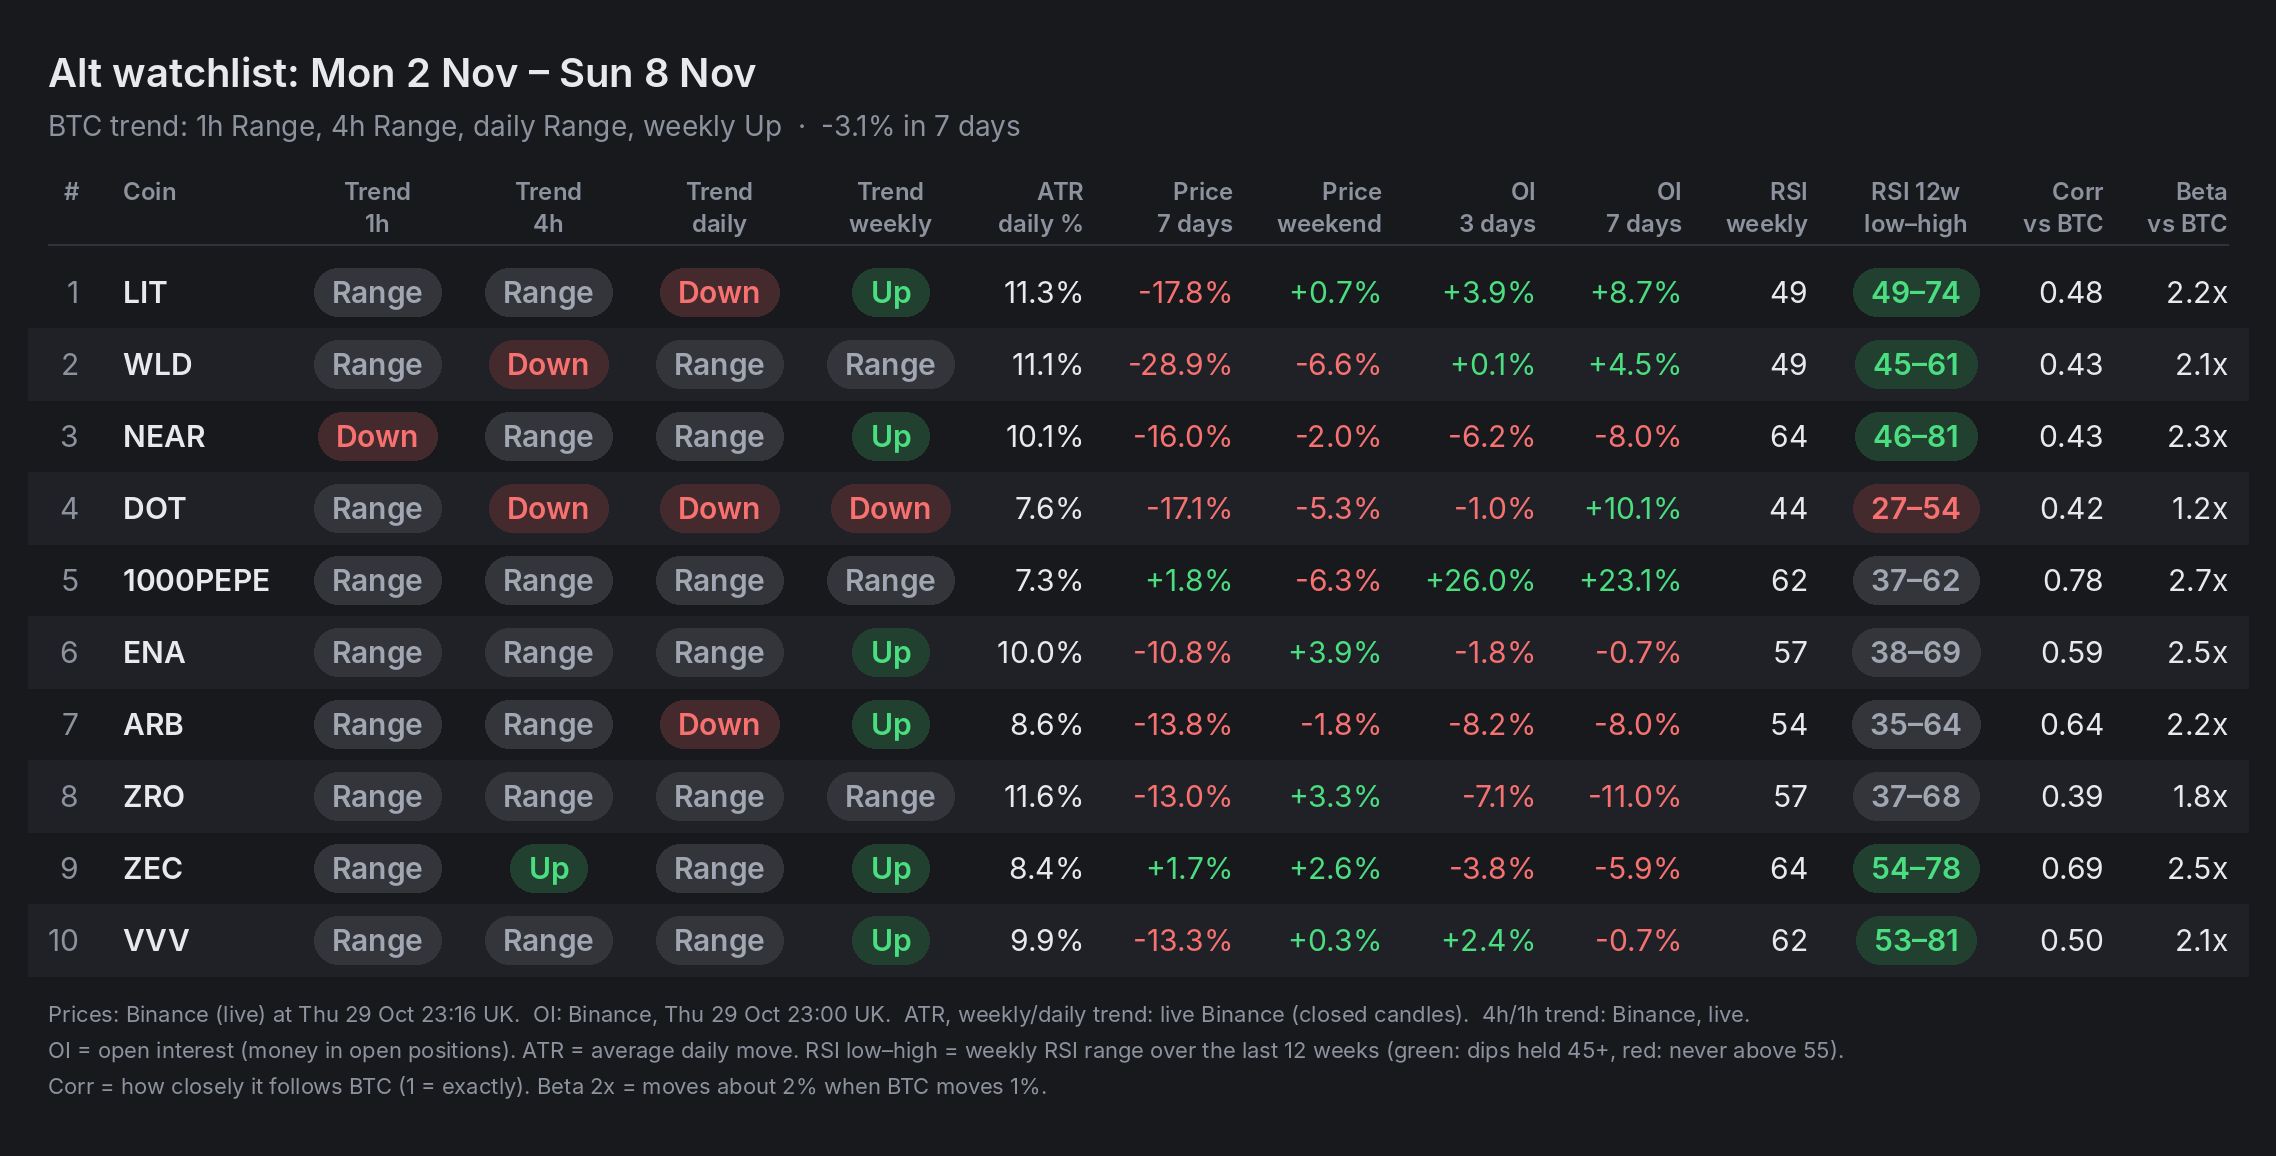
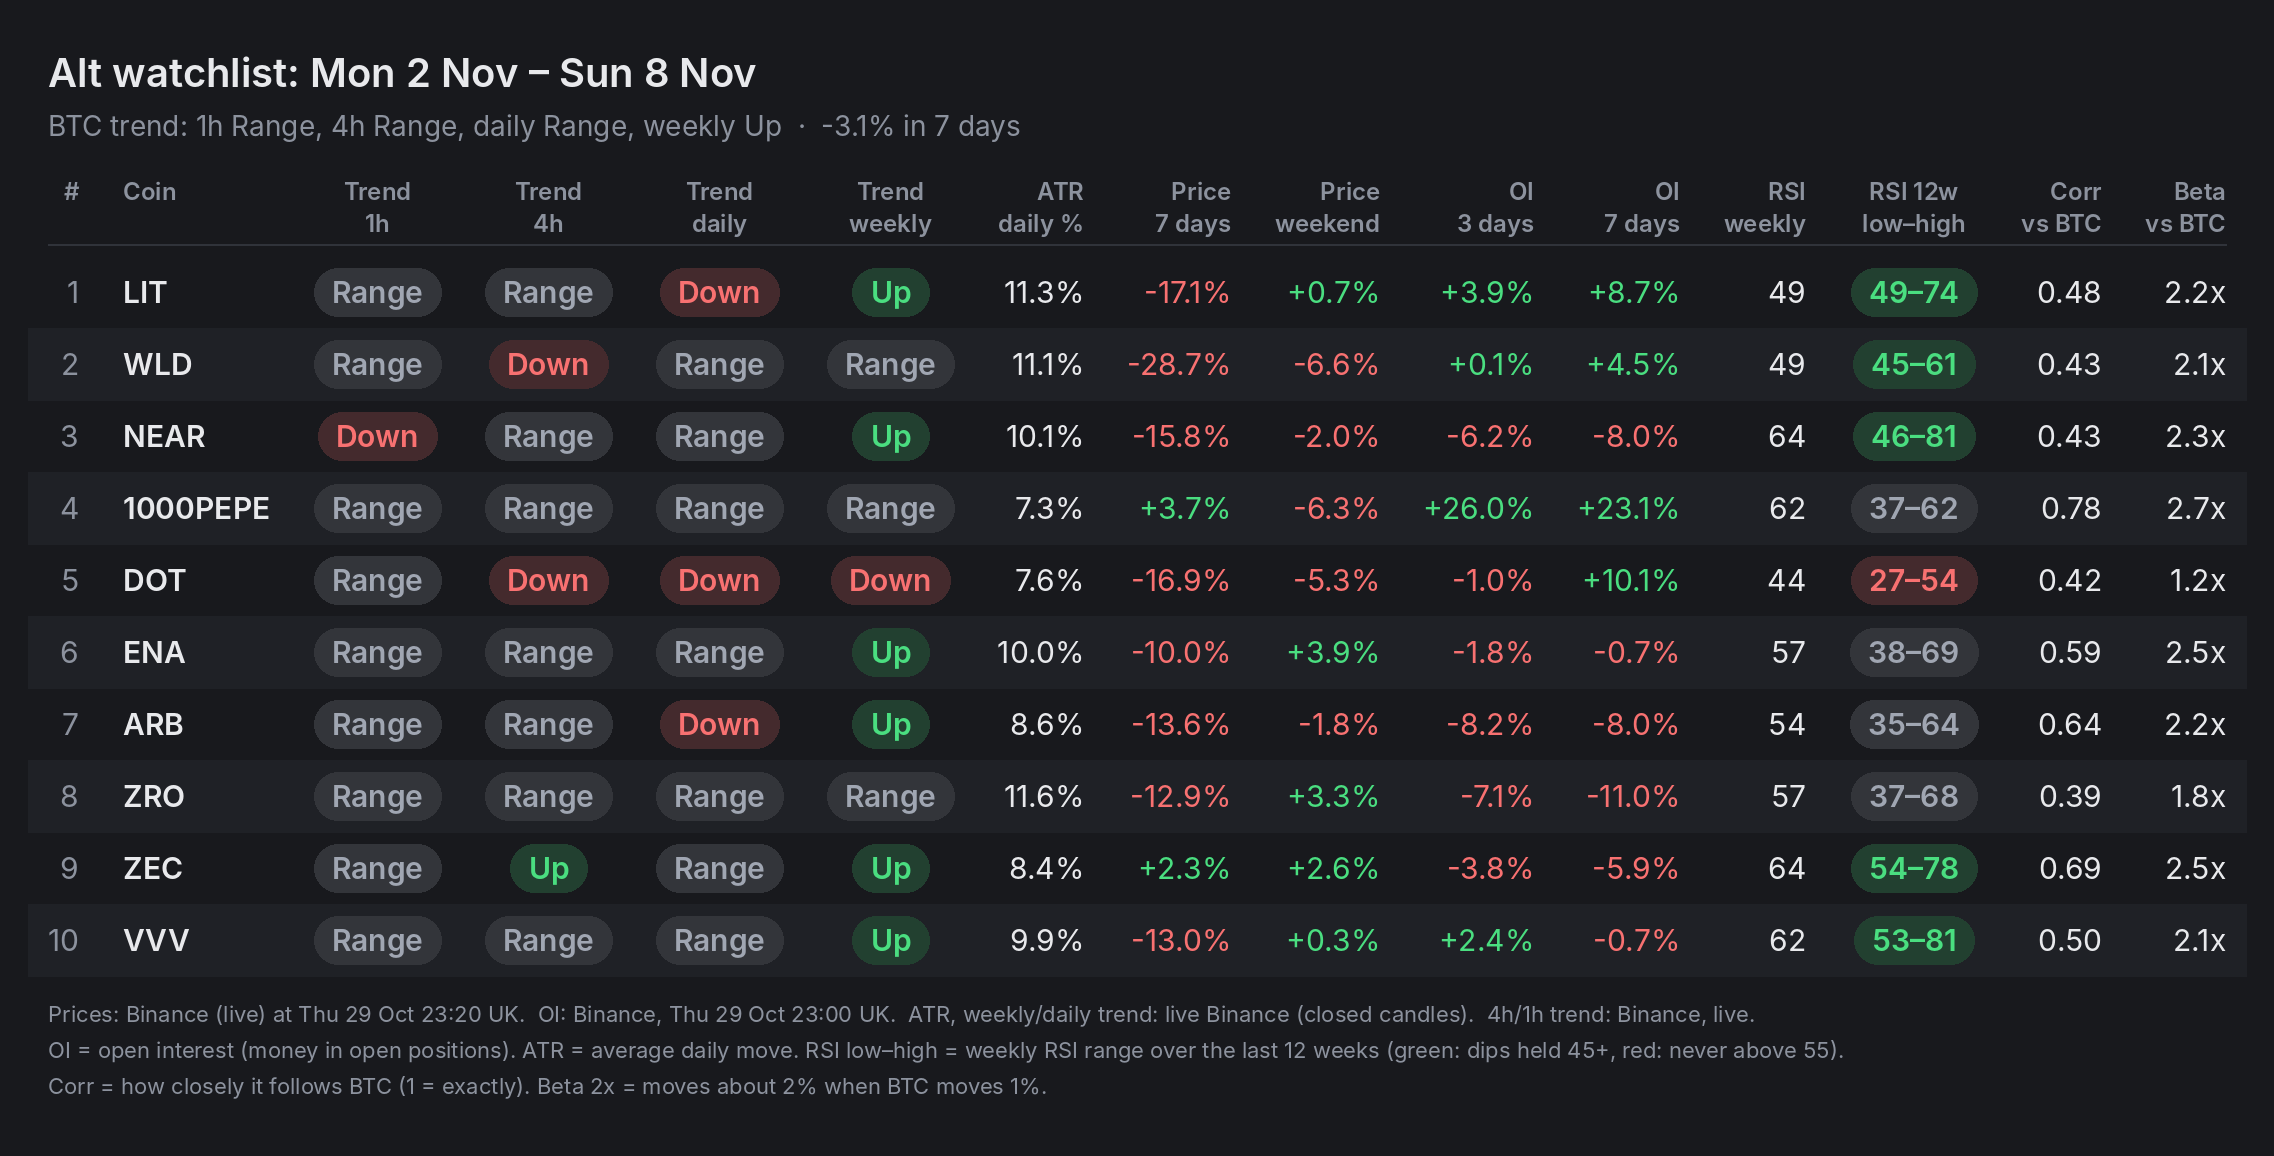
Weekly watchlist 2026-10-29

diff --git a/latest/report.md b/latest/report.md
@@ -1,6 +1,6 @@
 # Alt watchlist: Mon 2 Nov – Sun 8 Nov
 
-- **Generated (UK time):** Thu 29 Oct 2026 23:16
+- **Generated (UK time):** Thu 29 Oct 2026 23:20
 - **Daily candles up to (UTC):** 2026-10-28
 - **Binance perps also on Hyperliquid (after exclusions):** 169
 - **Passed all filters:** 30
@@ -9,36 +9,36 @@
 
 | Rank | Coin | Score | Trend | ATR% | Vol 7d/30d | 7d move | Weekend move | OI 3d | OI 7d | Corr BTC | Beta BTC | Binance OI | Binance 7d avg vol | HL 24h vol | HL OI | wRSI | wRSI 12w low–high | Funding /8h | Tags | Candles |
 |---|---|---|---|---|---|---|---|---|---|---|---|---|---|---|---|---|---|---|---|---|
-| **1** | LIT | 73 | 1h: Range · 4h: Range · D: Down · W: Up | 11.3% | 0.70 | -17.8% | +0.7% | +3.9% | +8.7% | 0.48 | 2.16 | $49.9M | $48.6M | $83.8M | $105.6M | 49 | 49–74 | +0.0100% (Binance) |  | Binance live |
-| **2** | WLD | 72 | 1h: Range · 4h: Down · D: Range · W: Range | 11.1% | 0.82 | -28.9% | -6.6% | +0.1% | +4.5% | 0.43 | 2.07 | $72.2M | $235.4M | $35.7M | $51.0M | 49 | 45–61 | -0.0011% (Binance) |  | Binance live |
-| **3** | NEAR | 71 | 1h: Down · 4h: Range · D: Range · W: Up | 10.1% | 0.72 | -16.0% | -2.0% | -6.2% | -8.0% | 0.43 | 2.27 | $204.4M | $523.5M | $210.4M | $227.0M | 64 | 46–81 | +0.0023% (Binance) |  | Binance live |
-| **4** | DOT | 68 | 1h: Range · 4h: Down · D: Down · W: Down | 7.6% | 0.87 | -17.1% | -5.3% | -1.0% | +10.1% | 0.42 | 1.24 | $31.7M | $55.7M | $4.5M | $5.5M | 44 | 27–54 | -0.0041% (Binance) |  | Binance live |
-| **5** | 1000PEPE | 67 | 1h: Range · 4h: Range · D: Range · W: Range | 7.3% | 1.48 | +1.8% | -6.3% | +26.0% | +23.1% | 0.78 | 2.71 | $103.8M | $372.4M | $204.3M | $67.9M | 62 | 37–62 | +0.0100% (Binance) |  | Binance live |
-| **6** | ENA | 63 | 1h: Range · 4h: Range · D: Range · W: Up | 10.0% | 1.10 | -10.8% | +3.9% | -1.8% | -0.7% | 0.59 | 2.46 | $89.3M | $289.4M | $124.6M | $91.0M | 57 | 38–69 | -0.0106% (Binance) |  | Binance live |
-| **7** | ARB | 60 | 1h: Range · 4h: Range · D: Down · W: Up | 8.6% | 0.73 | -13.8% | -1.8% | -8.2% | -8.0% | 0.64 | 2.21 | $39.9M | $71.0M | $10.6M | $12.5M | 54 | 35–64 | -0.0069% (Binance) |  | Binance live |
-| **8** | ZRO | 59 | 1h: Range · 4h: Range · D: Range · W: Range | 11.6% | 0.51 | -13.0% | +3.3% | -7.1% | -11.0% | 0.39 | 1.77 | $29.9M | $35.7M | $29.7M | $60.0M | 57 | 37–68 | +0.0100% (Binance) |  | Binance live |
-| **9** | ZEC | 59 | 1h: Range · 4h: Up · D: Range · W: Up | 8.4% | 0.93 | +1.7% | +2.6% | -3.8% | -5.9% | 0.69 | 2.55 | $528.2M | $1.6B | $777.3M | $601.3M | 64 | 54–78 | -0.0003% (Binance) |  | Binance live |
-| **10** | VVV | 56 | 1h: Range · 4h: Range · D: Range · W: Up | 9.9% | 0.87 | -13.3% | +0.3% | +2.4% | -0.7% | 0.50 | 2.09 | $22.2M | $31.5M | $20.2M | $67.2M | 62 | 53–81 | +0.0100% (Binance) |  | Binance live |
-| 11 | AAVE | 56 | 1h: n/a · 4h: n/a · D: Down · W: Up | 6.9% | 0.62 | -18.5% | -5.5% | +10.6% | +13.7% | 0.58 | 1.70 | $53.4M | $78.9M | $36.3M | $52.2M | 52 | 42–66 | +0.0014% (Binance) |  | Binance live |
-| 12 | INJ | 56 | 1h: n/a · 4h: n/a · D: Range · W: Up | 8.8% | 0.81 | -6.9% | +1.1% | -7.9% | -8.2% | 0.63 | 2.49 | $22.6M | $72.4M | $7.3M | $5.0M | 64 | 42–71 | +0.0015% (Binance) |  | Binance live |
-| 13 | STRK | 56 | 1h: n/a · 4h: n/a · D: Down · W: Range | 18.3% | 0.27 | -20.6% | -7.5% | -10.0% | -7.6% | 0.41 | 4.58 | $18.8M | $55.3M | $11.7M | $29.5M | 50 | 34–77 | +0.0081% (Binance) |  | Binance live |
-| 14 | XMR | 53 | 1h: n/a · 4h: n/a · D: Up · W: Range | 5.6% | 1.49 | +2.2% | +1.6% | +6.5% | -9.3% | 0.34 | 0.67 | $64.5M | $84.8M | $103.3M | $142.7M | 72 | 59–73 | +0.0586% (Binance) | Extreme funding | Binance live |
-| 15 | TIA | 53 | 1h: n/a · 4h: n/a · D: Range · W: Range | 10.3% | 0.53 | -12.6% | -1.0% | -17.8% | -8.5% | 0.19 | 1.07 | $19.9M | $54.5M | $4.9M | $7.2M | 56 | 36–62 | +0.0018% (Binance) |  | Binance live |
-| 16 | APT | 47 | 1h: n/a · 4h: n/a · D: Down · W: Down | 9.0% | 0.57 | -17.5% | -4.7% | -7.6% | -5.7% | 0.64 | 2.40 | $16.1M | $32.6M | $3.7M | $3.6M | 44 | 30–51 | -0.0072% (Binance) |  | Binance live |
-| 17 | UNI | 46 | 1h: n/a · 4h: n/a · D: Down · W: Up | 7.5% | 0.60 | -9.0% | -0.6% | +8.9% | +6.7% | 0.77 | 2.45 | $153.5M | $137.5M | $88.0M | $79.4M | 58 | 44–74 | +0.0023% (Binance) |  | Binance live |
-| 18 | PUMP | 45 | 1h: n/a · 4h: n/a · D: Down · W: Up | 11.2% | 0.52 | -11.2% | -1.4% | -4.4% | +0.6% | 0.49 | 2.67 | $69.8M | $132.9M | $104.9M | $103.5M | 56 | 54–78 | +0.0091% (Binance) |  | Binance live |
-| 19 | AVAX | 44 | 1h: n/a · 4h: n/a · D: Down · W: Range | 6.1% | 0.62 | -8.7% | -1.4% | -6.6% | -16.0% | 0.62 | 1.68 | $74.4M | $94.8M | $8.5M | $16.6M | 49 | 34–62 | +0.0025% (Binance) |  | Binance live |
-| 20 | TRUMP | 43 | 1h: n/a · 4h: n/a · D: Down · W: Down | 6.7% | 0.65 | -9.0% | -3.1% | -7.1% | -8.3% | 0.76 | 1.73 | $36.4M | $52.1M | $4.1M | $7.0M | 39 | 27–48 | +0.0100% (Binance) |  | Binance live |
-| 21 | HBAR | 39 | 1h: n/a · 4h: n/a · D: Down · W: Range | 6.4% | 0.52 | -12.7% | +0.0% | -9.3% | -12.4% | 0.46 | 1.32 | $27.4M | $32.7M | $6.5M | $9.2M | 44 | 33–59 | +0.0035% (Binance) |  | Binance live |
-| 22 | XRP | 39 | 1h: n/a · 4h: n/a · D: Down · W: Range | 4.2% | 0.74 | -4.9% | +0.1% | -1.9% | -6.9% | 0.93 | 1.40 | $368.6M | $530.3M | $122.6M | $217.9M | 48 | 31–57 | +0.0064% (Binance) |  | Binance live |
-| 23 | SUI | 39 | 1h: n/a · 4h: n/a · D: Down · W: Range | 6.7% | 0.63 | -9.3% | -4.2% | -4.2% | +3.8% | 0.80 | 2.00 | $95.9M | $178.1M | $24.0M | $28.7M | 49 | 36–60 | -0.0081% (Binance) |  | Binance live |
-| 24 | DOGE | 38 | 1h: n/a · 4h: n/a · D: Down · W: Down | 4.7% | 0.75 | -3.5% | -2.2% | -5.2% | -5.4% | 0.88 | 1.53 | $198.4M | $271.0M | $13.6M | $76.4M | 44 | 33–52 | +0.0031% (Binance) |  | Binance live |
-| 25 | LINK | 37 | 1h: n/a · 4h: n/a · D: Down · W: Up | 5.4% | 0.69 | -10.5% | -3.2% | +4.1% | +4.7% | 0.79 | 1.56 | $90.5M | $94.0M | $30.5M | $53.7M | 53 | 50–66 | -0.0025% (Binance) |  | Binance live |
-| 26 | BCH | 36 | 1h: n/a · 4h: n/a · D: Range · W: Down | 5.5% | 1.00 | +0.9% | -1.2% | -2.4% | +2.2% | 0.70 | 1.67 | $79.0M | $80.6M | $4.7M | $7.6M | 48 | 30–53 | +0.0087% (Binance) |  | Binance live |
-| 27 | TAO | 33 | 1h: n/a · 4h: n/a · D: Down · W: Range | 6.5% | 0.69 | -7.5% | -0.8% | -0.1% | -3.4% | 0.73 | 1.82 | $59.0M | $90.3M | $14.0M | $36.5M | 51 | 43–60 | -0.0136% (Binance) |  | Binance live |
-| 28 | ONDO | 33 | 1h: n/a · 4h: n/a · D: Down · W: Range | 7.4% | 0.54 | -10.4% | -2.6% | +1.5% | +2.9% | 0.69 | 1.78 | $46.8M | $60.1M | $17.7M | $20.8M | 51 | 46–66 | +0.0042% (Binance) |  | Binance live |
-| 29 | ADA | 29 | 1h: n/a · 4h: n/a · D: Down · W: Range | 6.3% | 0.67 | -9.5% | -3.1% | -3.5% | -0.1% | 0.77 | 1.98 | $63.9M | $122.4M | $10.1M | $28.4M | 45 | 38–54 | +0.0044% (Binance) |  | Binance live |
-| 30 | LTC | 29 | 1h: n/a · 4h: n/a · D: Down · W: Range | 4.6% | 0.73 | -5.8% | -0.9% | -4.0% | -3.7% | 0.75 | 1.39 | $64.5M | $60.2M | $4.3M | $21.7M | 52 | 37–66 | +0.0037% (Binance) |  | Binance live |
+| **1** | LIT | 73 | 1h: Range · 4h: Range · D: Down · W: Up | 11.3% | 0.70 | -17.1% | +0.7% | +3.9% | +8.7% | 0.48 | 2.16 | $49.9M | $48.6M | $84.0M | $106.9M | 49 | 49–74 | +0.0100% (Binance) |  | Binance live |
+| **2** | WLD | 72 | 1h: Range · 4h: Down · D: Range · W: Range | 11.1% | 0.82 | -28.7% | -6.6% | +0.1% | +4.5% | 0.43 | 2.07 | $72.2M | $235.4M | $37.0M | $51.3M | 49 | 45–61 | -0.0001% (Binance) |  | Binance live |
+| **3** | NEAR | 71 | 1h: Down · 4h: Range · D: Range · W: Up | 10.1% | 0.72 | -15.8% | -2.0% | -6.2% | -8.0% | 0.43 | 2.27 | $204.4M | $523.5M | $210.8M | $228.1M | 64 | 46–81 | +0.0026% (Binance) |  | Binance live |
+| **4** | 1000PEPE | 68 | 1h: Range · 4h: Range · D: Range · W: Range | 7.3% | 1.48 | +3.7% | -6.3% | +26.0% | +23.1% | 0.78 | 2.71 | $103.8M | $372.4M | $209.9M | $66.6M | 62 | 37–62 | +0.0100% (Binance) |  | Binance live |
+| **5** | DOT | 68 | 1h: Range · 4h: Down · D: Down · W: Down | 7.6% | 0.87 | -16.9% | -5.3% | -1.0% | +10.1% | 0.42 | 1.24 | $31.7M | $55.7M | $4.5M | $5.5M | 44 | 27–54 | -0.0037% (Binance) |  | Binance live |
+| **6** | ENA | 62 | 1h: Range · 4h: Range · D: Range · W: Up | 10.0% | 1.10 | -10.0% | +3.9% | -1.8% | -0.7% | 0.59 | 2.46 | $89.3M | $289.4M | $125.3M | $91.5M | 57 | 38–69 | -0.0123% (Binance) |  | Binance live |
+| **7** | ARB | 60 | 1h: Range · 4h: Range · D: Down · W: Up | 8.6% | 0.73 | -13.6% | -1.8% | -8.2% | -8.0% | 0.64 | 2.21 | $39.9M | $71.0M | $10.5M | $12.5M | 54 | 35–64 | -0.0069% (Binance) |  | Binance live |
+| **8** | ZRO | 59 | 1h: Range · 4h: Range · D: Range · W: Range | 11.6% | 0.51 | -12.9% | +3.3% | -7.1% | -11.0% | 0.39 | 1.77 | $29.9M | $35.7M | $29.8M | $60.0M | 57 | 37–68 | +0.0100% (Binance) |  | Binance live |
+| **9** | ZEC | 59 | 1h: Range · 4h: Up · D: Range · W: Up | 8.4% | 0.93 | +2.3% | +2.6% | -3.8% | -5.9% | 0.69 | 2.55 | $528.2M | $1.6B | $782.7M | $610.0M | 64 | 54–78 | -0.0003% (Binance) |  | Binance live |
+| **10** | VVV | 56 | 1h: Range · 4h: Range · D: Range · W: Up | 9.9% | 0.87 | -13.0% | +0.3% | +2.4% | -0.7% | 0.50 | 2.09 | $22.2M | $31.5M | $20.2M | $67.4M | 62 | 53–81 | +0.0100% (Binance) |  | Binance live |
+| 11 | AAVE | 56 | 1h: n/a · 4h: n/a · D: Down · W: Up | 6.9% | 0.62 | -18.2% | -5.5% | +10.6% | +13.7% | 0.58 | 1.70 | $53.4M | $78.9M | $36.4M | $52.4M | 52 | 42–66 | +0.0016% (Binance) |  | Binance live |
+| 12 | INJ | 56 | 1h: n/a · 4h: n/a · D: Range · W: Up | 8.8% | 0.81 | -6.9% | +1.1% | -7.9% | -8.2% | 0.63 | 2.49 | $22.6M | $72.4M | $7.3M | $5.0M | 64 | 42–71 | +0.0010% (Binance) |  | Binance live |
+| 13 | STRK | 56 | 1h: n/a · 4h: n/a · D: Down · W: Range | 18.3% | 0.27 | -20.4% | -7.5% | -10.0% | -7.6% | 0.41 | 4.58 | $18.8M | $55.3M | $11.7M | $29.6M | 50 | 34–77 | +0.0089% (Binance) |  | Binance live |
+| 14 | TIA | 53 | 1h: n/a · 4h: n/a · D: Range · W: Range | 10.3% | 0.53 | -12.0% | -1.0% | -17.8% | -8.5% | 0.19 | 1.07 | $19.9M | $54.5M | $4.9M | $7.3M | 56 | 36–62 | +0.0024% (Binance) |  | Binance live |
+| 15 | XMR | 53 | 1h: n/a · 4h: n/a · D: Up · W: Range | 5.6% | 1.49 | +2.7% | +1.6% | +6.5% | -9.3% | 0.34 | 0.67 | $64.5M | $84.8M | $103.4M | $143.4M | 72 | 59–73 | +0.0586% (Binance) | Extreme funding | Binance live |
+| 16 | APT | 48 | 1h: n/a · 4h: n/a · D: Down · W: Down | 9.0% | 0.57 | -17.3% | -4.7% | -7.6% | -5.7% | 0.64 | 2.40 | $16.1M | $32.6M | $3.7M | $3.5M | 44 | 30–51 | -0.0072% (Binance) |  | Binance live |
+| 17 | AVAX | 45 | 1h: n/a · 4h: n/a · D: Down · W: Range | 6.1% | 0.62 | -8.6% | -1.4% | -6.6% | -16.0% | 0.62 | 1.68 | $74.4M | $94.8M | $8.5M | $16.5M | 49 | 34–62 | +0.0026% (Binance) |  | Binance live |
+| 18 | UNI | 44 | 1h: n/a · 4h: n/a · D: Down · W: Up | 7.5% | 0.60 | -8.0% | -0.6% | +8.9% | +6.7% | 0.77 | 2.45 | $153.5M | $137.5M | $88.9M | $80.3M | 58 | 44–74 | +0.0020% (Binance) |  | Binance live |
+| 19 | PUMP | 44 | 1h: n/a · 4h: n/a · D: Down · W: Up | 11.2% | 0.52 | -10.8% | -1.4% | -4.4% | +0.6% | 0.49 | 2.67 | $69.8M | $132.9M | $105.0M | $103.8M | 56 | 54–78 | +0.0098% (Binance) |  | Binance live |
+| 20 | TRUMP | 43 | 1h: n/a · 4h: n/a · D: Down · W: Down | 6.7% | 0.65 | -8.9% | -3.1% | -7.1% | -8.3% | 0.76 | 1.73 | $36.4M | $52.1M | $4.1M | $7.0M | 39 | 27–48 | +0.0100% (Binance) |  | Binance live |
+| 21 | HBAR | 39 | 1h: n/a · 4h: n/a · D: Down · W: Range | 6.4% | 0.52 | -12.6% | +0.0% | -9.3% | -12.4% | 0.46 | 1.32 | $27.4M | $32.7M | $6.5M | $9.2M | 44 | 33–59 | +0.0034% (Binance) |  | Binance live |
+| 22 | XRP | 39 | 1h: n/a · 4h: n/a · D: Down · W: Range | 4.2% | 0.74 | -4.7% | +0.1% | -1.9% | -6.9% | 0.93 | 1.40 | $368.6M | $530.3M | $123.0M | $218.8M | 48 | 31–57 | +0.0066% (Binance) |  | Binance live |
+| 23 | SUI | 39 | 1h: n/a · 4h: n/a · D: Down · W: Range | 6.7% | 0.63 | -9.1% | -4.2% | -4.2% | +3.8% | 0.80 | 2.00 | $95.9M | $178.1M | $24.0M | $28.8M | 49 | 36–60 | -0.0083% (Binance) |  | Binance live |
+| 24 | LINK | 38 | 1h: n/a · 4h: n/a · D: Down · W: Up | 5.4% | 0.69 | -10.9% | -3.2% | +4.1% | +4.7% | 0.79 | 1.56 | $90.5M | $94.0M | $31.8M | $55.3M | 53 | 50–66 | -0.0024% (Binance) |  | Binance live |
+| 25 | DOGE | 37 | 1h: n/a · 4h: n/a · D: Down · W: Down | 4.7% | 0.75 | -3.4% | -2.2% | -5.2% | -5.4% | 0.88 | 1.53 | $198.4M | $271.0M | $13.6M | $76.5M | 44 | 33–52 | +0.0027% (Binance) |  | Binance live |
+| 26 | BCH | 36 | 1h: n/a · 4h: n/a · D: Range · W: Down | 5.5% | 1.00 | +0.9% | -1.2% | -2.4% | +2.2% | 0.70 | 1.67 | $79.0M | $80.6M | $4.7M | $7.6M | 48 | 30–53 | +0.0091% (Binance) |  | Binance live |
+| 27 | ONDO | 33 | 1h: n/a · 4h: n/a · D: Down · W: Range | 7.4% | 0.54 | -10.1% | -2.6% | +1.5% | +2.9% | 0.69 | 1.78 | $46.8M | $60.1M | $18.4M | $21.2M | 51 | 46–66 | +0.0063% (Binance) |  | Binance live |
+| 28 | TAO | 33 | 1h: n/a · 4h: n/a · D: Down · W: Range | 6.5% | 0.69 | -7.5% | -0.8% | -0.1% | -3.4% | 0.73 | 1.82 | $59.0M | $90.3M | $14.1M | $36.5M | 51 | 43–60 | -0.0126% (Binance) |  | Binance live |
+| 29 | ADA | 29 | 1h: n/a · 4h: n/a · D: Down · W: Range | 6.3% | 0.67 | -9.3% | -3.1% | -3.5% | -0.1% | 0.77 | 1.98 | $63.9M | $122.4M | $10.2M | $28.3M | 45 | 38–54 | +0.0046% (Binance) |  | Binance live |
+| 30 | LTC | 29 | 1h: n/a · 4h: n/a · D: Down · W: Range | 4.6% | 0.73 | -5.7% | -0.9% | -4.0% | -3.7% | 0.75 | 1.39 | $64.5M | $60.2M | $4.4M | $21.7M | 52 | 37–66 | +0.0036% (Binance) |  | Binance live |
 
 ## Coins knocked out, by filter
 
@@ -52,16 +52,3 @@ A coin can fail more than one filter.
 - ATR%: 3
 
 Tags are information only; they never filter. Not trade advice.
-
-## Coin notes
-
-- **LIT**: Weekly (Up): bands green since w/c 29 Jun (18 weeks); broke above the bands w/c 8 Jun; testing the fast EMA now. Daily (Down): bands red since 2 Oct (27 days); broke below the bands 28 Sep; hasn't touched the fast EMA in 5 days.
-- **WLD**: Weekly (Range): bands green since w/c 28 Sep (5 weeks); broke above the bands w/c 14 Sep; testing the fast EMA now. Daily (Range): bands red since 26 Oct (3 days); broke below the bands 23 Oct; hasn't touched the fast EMA since the flip.
-- **NEAR**: Weekly (Up): bands green since w/c 25 May (23 weeks); broke above the bands w/c 18 May on 5.0x normal volume; hasn't touched the fast EMA in 6 weeks. Daily (Range): bands green since 22 Aug (68 days); broke above the bands 19 Aug on 2.1x normal volume; testing the fast EMA now.
-- **DOT**: Weekly (Down): bands red since w/c 10 Feb (90 weeks); broke below the bands w/c 13 Jan; tapped the fast EMA last week. Daily (Down): bands red since 22 Oct (7 days); broke below the bands 17 Oct; hasn't touched the fast EMA in 5 days.
-- **1000PEPE**: Weekly (Range): bands green since w/c 5 Oct (4 weeks); broke above the bands w/c 14 Sep; hasn't touched the fast EMA in 2 weeks. Daily (Range): bands green since 20 Oct (9 days); broke above the bands 19 Oct; tapped the fast EMA yesterday.
-- **ENA**: Weekly (Up): bands green since w/c 14 Sep (7 weeks); broke above the bands w/c 17 Aug on 4.9x normal volume; tapped the fast EMA last week. Daily (Range): bands red since 16 Oct (13 days); broke below the bands 12 Oct; testing the fast EMA now.
-- **ARB**: Weekly (Up): bands green since w/c 14 Sep (7 weeks); broke above the bands w/c 31 Aug on 11.4x normal volume; testing the fast EMA now. Daily (Down): bands red since 22 Oct (7 days); broke below the bands 20 Oct on 1.7x normal volume; testing the fast EMA now.
-- **ZRO**: Weekly (Range): bands green since w/c 28 Sep (5 weeks); broke above the bands w/c 14 Sep; hasn't touched the fast EMA since the flip. Daily (Range): bands red since 27 Oct (2 days); broke below the bands 22 Oct; hasn't touched the fast EMA since the flip.
-- **ZEC**: Weekly (Up): bands green since w/c 20 Apr (28 weeks); broke above the bands w/c 6 Apr; hasn't touched the fast EMA in 2 weeks. Daily (Range): bands red since 10 Oct (19 days); broke below the bands 7 Oct; testing the fast EMA now.
-- **VVV**: Weekly (Up): bands green since w/c 9 Feb (38 weeks); broke above the bands w/c 9 Feb on 11.6x normal volume; hasn't touched the fast EMA in 2 weeks. Daily (Range): bands green since 27 Oct (2 days); broke above the bands 25 Oct; testing the fast EMA now.
